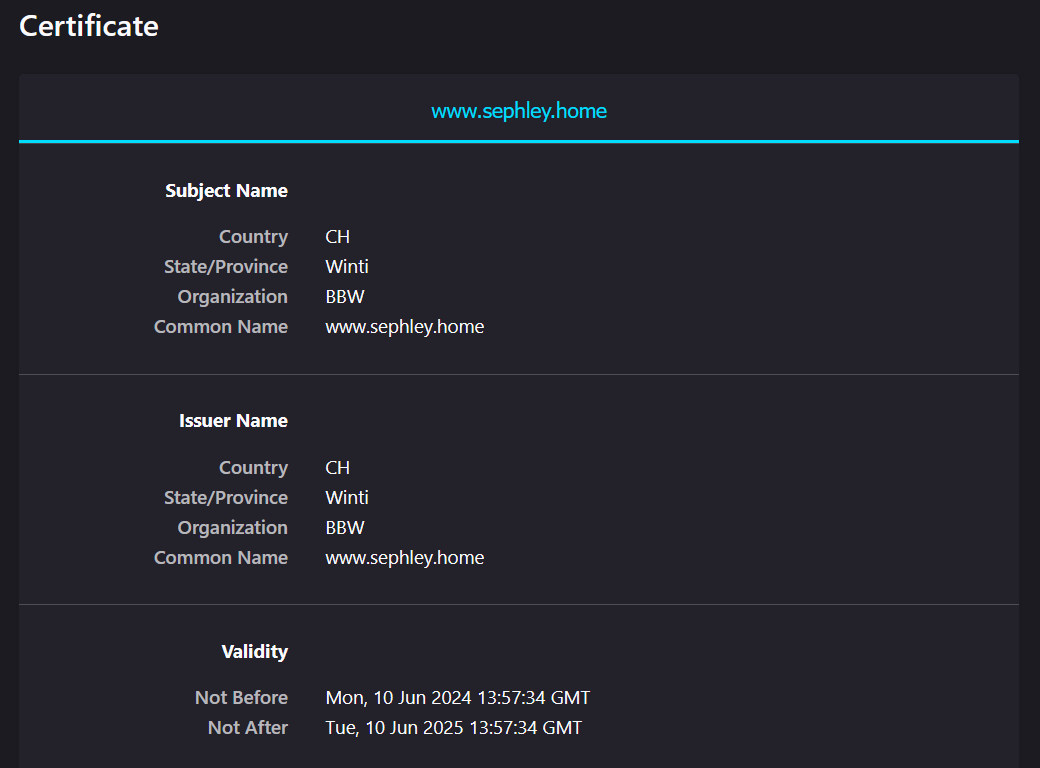
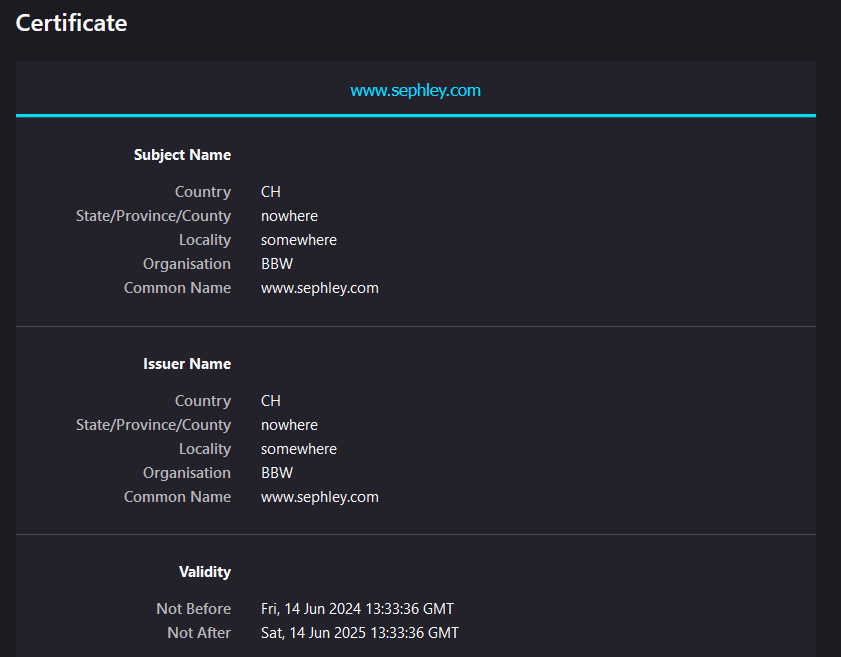
update table, hostnames, indexes and sni in tls

diff --git a/docs/tls/glossar/vergleich.md b/docs/tls/glossar/vergleich.md
@@ -1,10 +1,27 @@
 # Vergleich von verschiedenen HTTPS-Seiten
-- [ ] *Vergleichen Sie verschiedene HTTPS-Seiten (digitec, olat, Schweizer Bank Ihrer Wahl, Nischenbank z. B. garantibank.nl) auf ihren Sicherheitslevel.*
+- [x] *Vergleichen Sie verschiedene HTTPS-Seiten (digitec, olat, Schweizer Bank Ihrer Wahl, Nischenbank z. B. garantibank.nl) auf ihren Sicherheitslevel.*
 
-Für jeden der folgenden Domänen habe ich den "SSL Server Test" von SSL Labs ausgeführt.
+## Vergleich
 
-| **URL**| **TLS Version**| **SSL Labs Auswertung**|
+Für jeden der folgenden Domänen habe ich den "SSL Server Test" von SSL Labs ausgeführt.  
+[Wie funktioniert die Auswertung?](https://github.com/ssllabs/research/wiki/SSL-Server-Rating-Guide)
+
+
+| **URL**| **Unterstützte TLS Versionen**| **SSL Labs Auswertung**|
 |--|--|--|
-| <https://www.digitec.ch>| 1.3| [A+](https://www.ssllabs.com/ssltest/analyze.html?d=www.digitec.ch)|
-| <https://olat.bbw.ch>| 1.3| [A+](https://www.ssllabs.com/ssltest/analyze.html?d=olat.bbw.ch)|
-| <https://sephley.github.io/docs>| | [A](https://www.ssllabs.com/ssltest/analyze.html?d=sephley.github.io) |
+| <https://www.digitec.ch>| 1.2 - 1.3| [A+](https://www.ssllabs.com/ssltest/analyze.html?d=www.digitec.ch)|
+| <https://olat.bbw.ch>| 1.2 - 1.3| [A+](https://www.ssllabs.com/ssltest/analyze.html?d=olat.bbw.ch)|
+| <https://garantibank.nl>| 1.2 - 1.3| [A+](https://www.ssllabs.com/ssltest/analyze.html?d=garantibank.nl)|
+|--|--|--|
+| <https://sephley.github.io/docs>| 1.2 - 1.3| [A](https://www.ssllabs.com/ssltest/analyze.html?d=sephley.github.io)|
+| <https://www.sephley.com>| 1.2 - 1.3| [T (A wenn es trusted wäre)](https://www.ssllabs.com/ssltest/analyze.html?d=www.sephley.com)|
+
+## Reflexion
+Was bei meinen Webseiten zum A anstatt A+ geführt hat sind die Ciphers.  
+Beispielsweise ist mir aufgefallen, das mein selbst-signiertes Zertifikat <https://www.sephley.com> schwächere Ciphers verwendet als <https://olat.bbw.ch>.
+
+><https://olat.bbw.ch>  
+![olat-bbw-ciphers](../images/ssllabs-olat-bbw.png)
+
+><https://www.sephley.com>  
+![www-sephley-ciphers](../images/ssllabs-www-sephley.png)

diff --git a/docs/tls/glossar/sni.md b/docs/tls/glossar/sni.md
@@ -1,7 +1,5 @@
 # SNI
-- [ ] *Lange bestand das Problem, dass pro HTTPS-Subdomain eine eigene IP-Adresse nötig war. Warum und wie löste man das? Wie funktioniert SNI?*
-
-<https://www.cloudflare.com/en-gb/learning/ssl/what-is-sni/>
+- [x] *Lange bestand das Problem, dass pro HTTPS-Subdomain eine eigene IP-Adresse nötig war. Warum und wie löste man das? Wie funktioniert SNI?*
 
 ## Problem
 In den frühen Versionen des SSL/TLS-Protokolls wird die Anfrage des Clients an den Server ohne Hostinformationen gesendet.
@@ -9,3 +7,7 @@ Das bedeutet, dass der Server nicht weiss, für welche Subdomain oder welchen Ho
 Ohne diese Information konnte der Server nicht das richtige Zertifikat auswählen, wenn mehrere Subdomains auf derselben IP-Adresse gehostet wurden.
 
 ## Lösung
+Um dieses Problem zu lösen haben die Entwickler des "EdelKey project" SNI (Server Name Indication) als Erweiterung von TLS 2003 ins Leben gerufen.  
+Ich finde die Erklärung von [Cloudflare](https://www.cloudflare.com/en-gb/learning/ssl/what-is-sni/) sehr verständlich: *SNI is somewhat like mailing a package to an apartment building instead of to a house. When mailing something to someone's house, the street address alone is enough to get the package to the right person. But when a package goes to an apartment building, it needs the apartment number in addition to the street address; otherwise, the package might not go to the right person or might not be delivered at all.*
+
+Technisch wird der Hostname in der ersten Nachricht des SSL/TLS-Handshakes gesendet. Dies erlabut es dem Server, das richtige Zertifikat für die angeforderte Subdomain auszuwählen.

diff --git a/docs/tls/glossar/index.md b/docs/tls/glossar/index.md
@@ -7,9 +7,9 @@ Checkliste der Recherche gemäss Olat:
 
 - [ ] *Verschaffen Sie sich einen Überblick über die Architektur des Protokolls.*
 - [ ] *Wer setzt TLS ein? Sehen Sie noch speziellere Anwendungsfälle insbesondere für 2-Way-Authentification.*
-- [ ] *Vergleichen Sie verschiedene HTTPS-Seiten (digitec, olat, Schweizer Bank Ihrer Wahl, Nischenbank z. B. garantibank.nl) auf ihren Sicherheitslevel.*
+- [x] *Vergleichen Sie verschiedene HTTPS-Seiten (digitec, olat, Schweizer Bank Ihrer Wahl, Nischenbank z. B. garantibank.nl) auf ihren Sicherheitslevel.*
 - [ ] *Wählen Sie eine der Angriffsmöglichkeiten aus und beschreiben Sie den Angriff und die Abwehrmechanismen von TLS detailliert.*
 - [ ] *Welche Verschlüsselungsverfahren können mit TLS eingesetzt werden?*
-- [ ] *Lange bestand das Problem, dass pro HTTPS-Subdomain eine eigene IP-Adresse nötig war. Warum und wie löste man das? Wie funktioniert SNI?*
+- [x] *Lange bestand das Problem, dass pro HTTPS-Subdomain eine eigene IP-Adresse nötig war. Warum und wie löste man das? Wie funktioniert SNI?*
 - [ ] *Welche Nachteile erkennen Sie durch diese Erweiterung?*
 - [ ] *Der englischsprachige Wikipedia-Artikel ist noch einiges umfangreicher. Welche Informationen finden Sie da zusätzlich?*

diff --git a/docs/tls/aufgaben/nginx.md b/docs/tls/aufgaben/nginx.md
@@ -38,8 +38,8 @@ server {
 
 ## Self-signed cert
 ```
-openssl genrsa -out www.sephley.home.key 2048
-openssl req -new -key www.sephley.home.key -out csr.pem
-openssl req -x509 -key www.sephley.home.key -in csr.pem -out www.sephley.home.crt -days 365
+openssl genrsa -out www.sephley.com.key 2048
+openssl req -new -key www.sephley.com.key -out csr.pem
+openssl req -x509 -key www.sephley.com.key -in csr.pem -out www.sephley.home.crt -days 365
 ```
 ![self-signed-cert](../images/self-sigend-cert.png)
